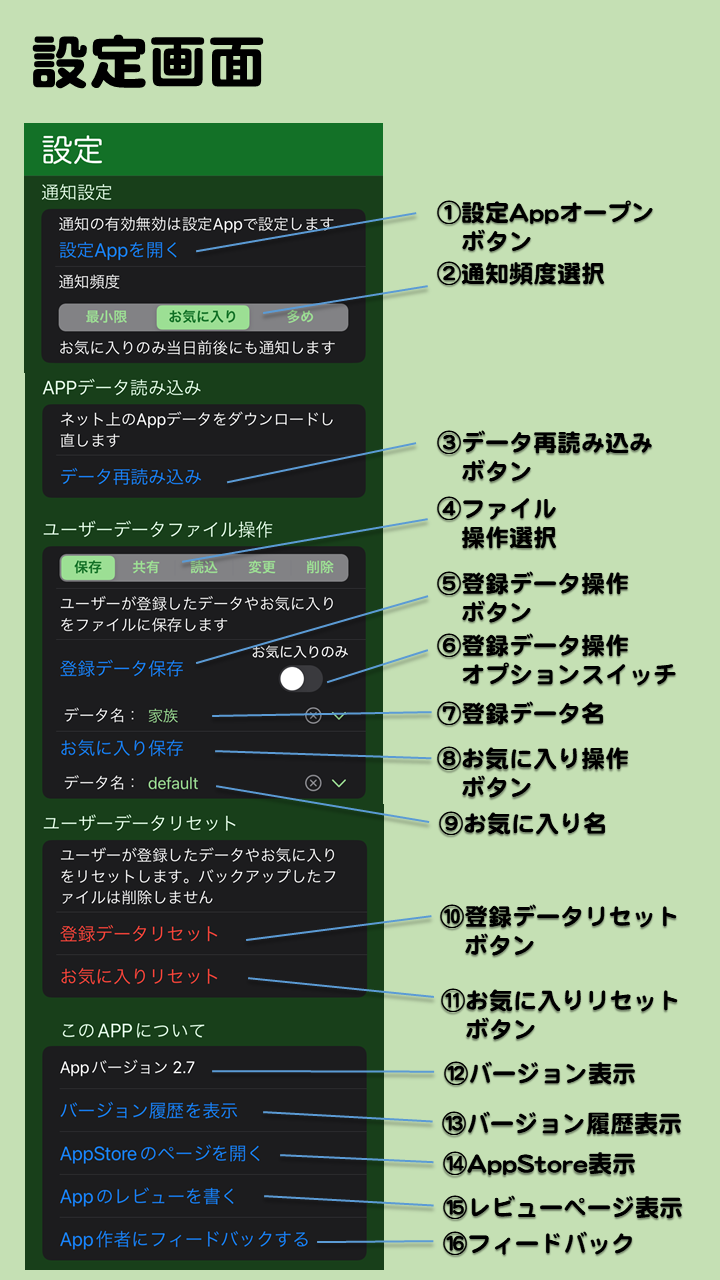
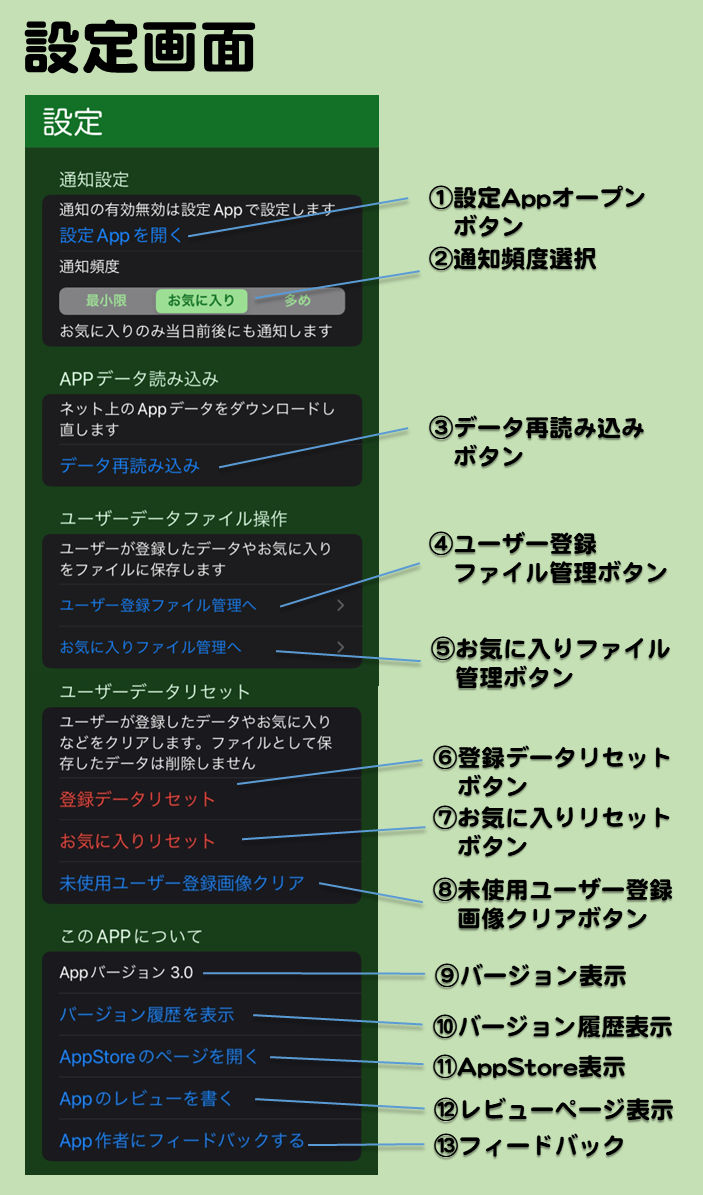
panda v3 help

Changed region(s): [[0.0299, 0.0, 0.9559, 1.0]]

diff --git a/pandabirthday/v3_0/help_backupFavoritesPage.html b/pandabirthday/v3_0/help_backupFavoritesPage.html
@@ -42,9 +42,9 @@
 </style></head>
   <body id="body">
     <p></p>
-    <img src="help_setting.png" alt="setting page image" title="setting_page ">
+    <img src="help_backupFavorites.png" alt="backup favorites manage page image" title="favorites manage page ">
     <dl>
-      <dt>設定画面とは</dt>
+      <dt>とは</dt>
       <dd>メイン画面などで画面下の歯車アイコンをタップして移動してくる画面です。通知の設定や、登録データの保存、読み込みやリセットなどができます。</dd>
       <dd><br></dd>
       <dt>画面の説明</dt>

diff --git a/pandabirthday/v3_0/help_backupAddedDataPage.html b/pandabirthday/v3_0/help_backupAddedDataPage.html
@@ -42,7 +42,7 @@
 </style></head>
   <body id="body">
     <p></p>
-    <img src="help_setting.png" alt="setting page image" title="setting_page ">
+    <img src="help_backupAddedData.png" alt="added data manage page image" title="added data manage ">
     <dl>
       <dt>設定画面とは</dt>
       <dd>メイン画面などで画面下の歯車アイコンをタップして移動してくる画面です。通知の設定や、登録データの保存、読み込みやリセットなどができます。</dd>
